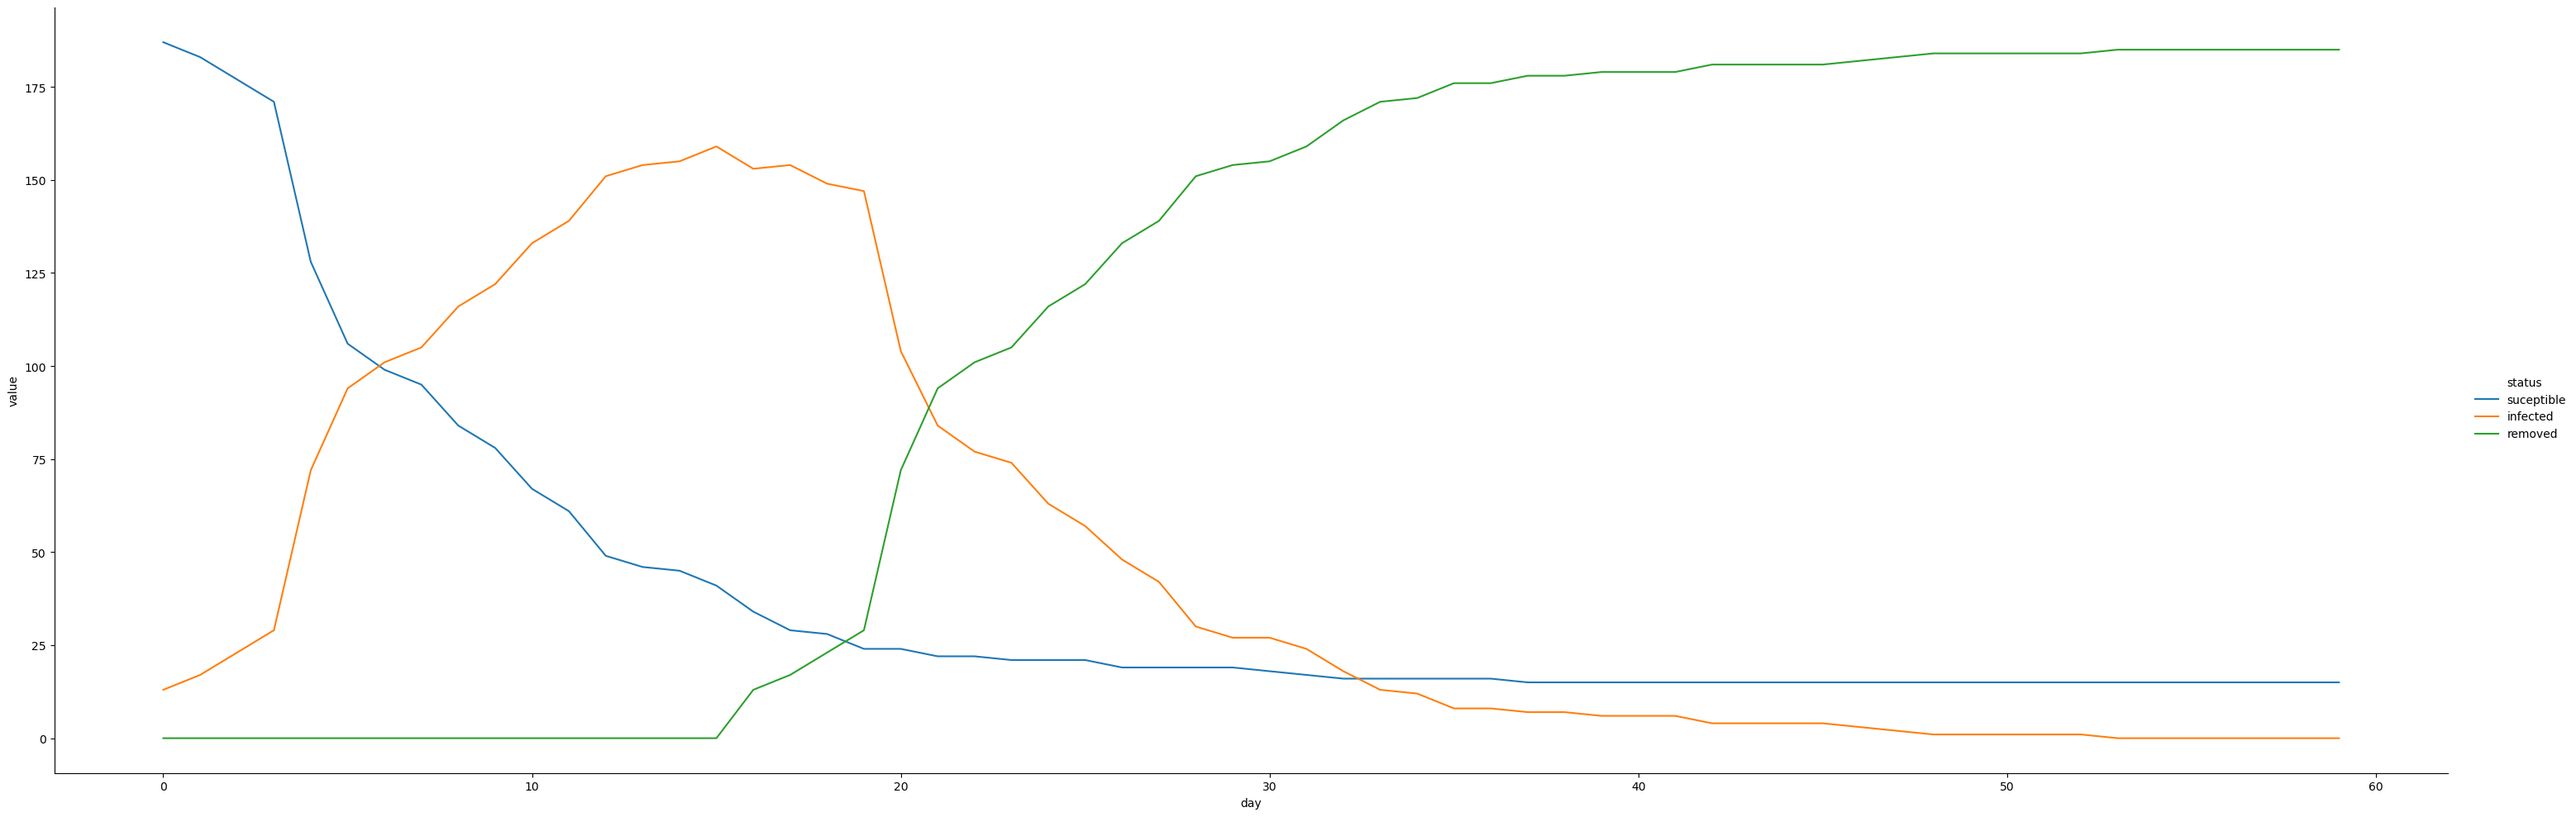
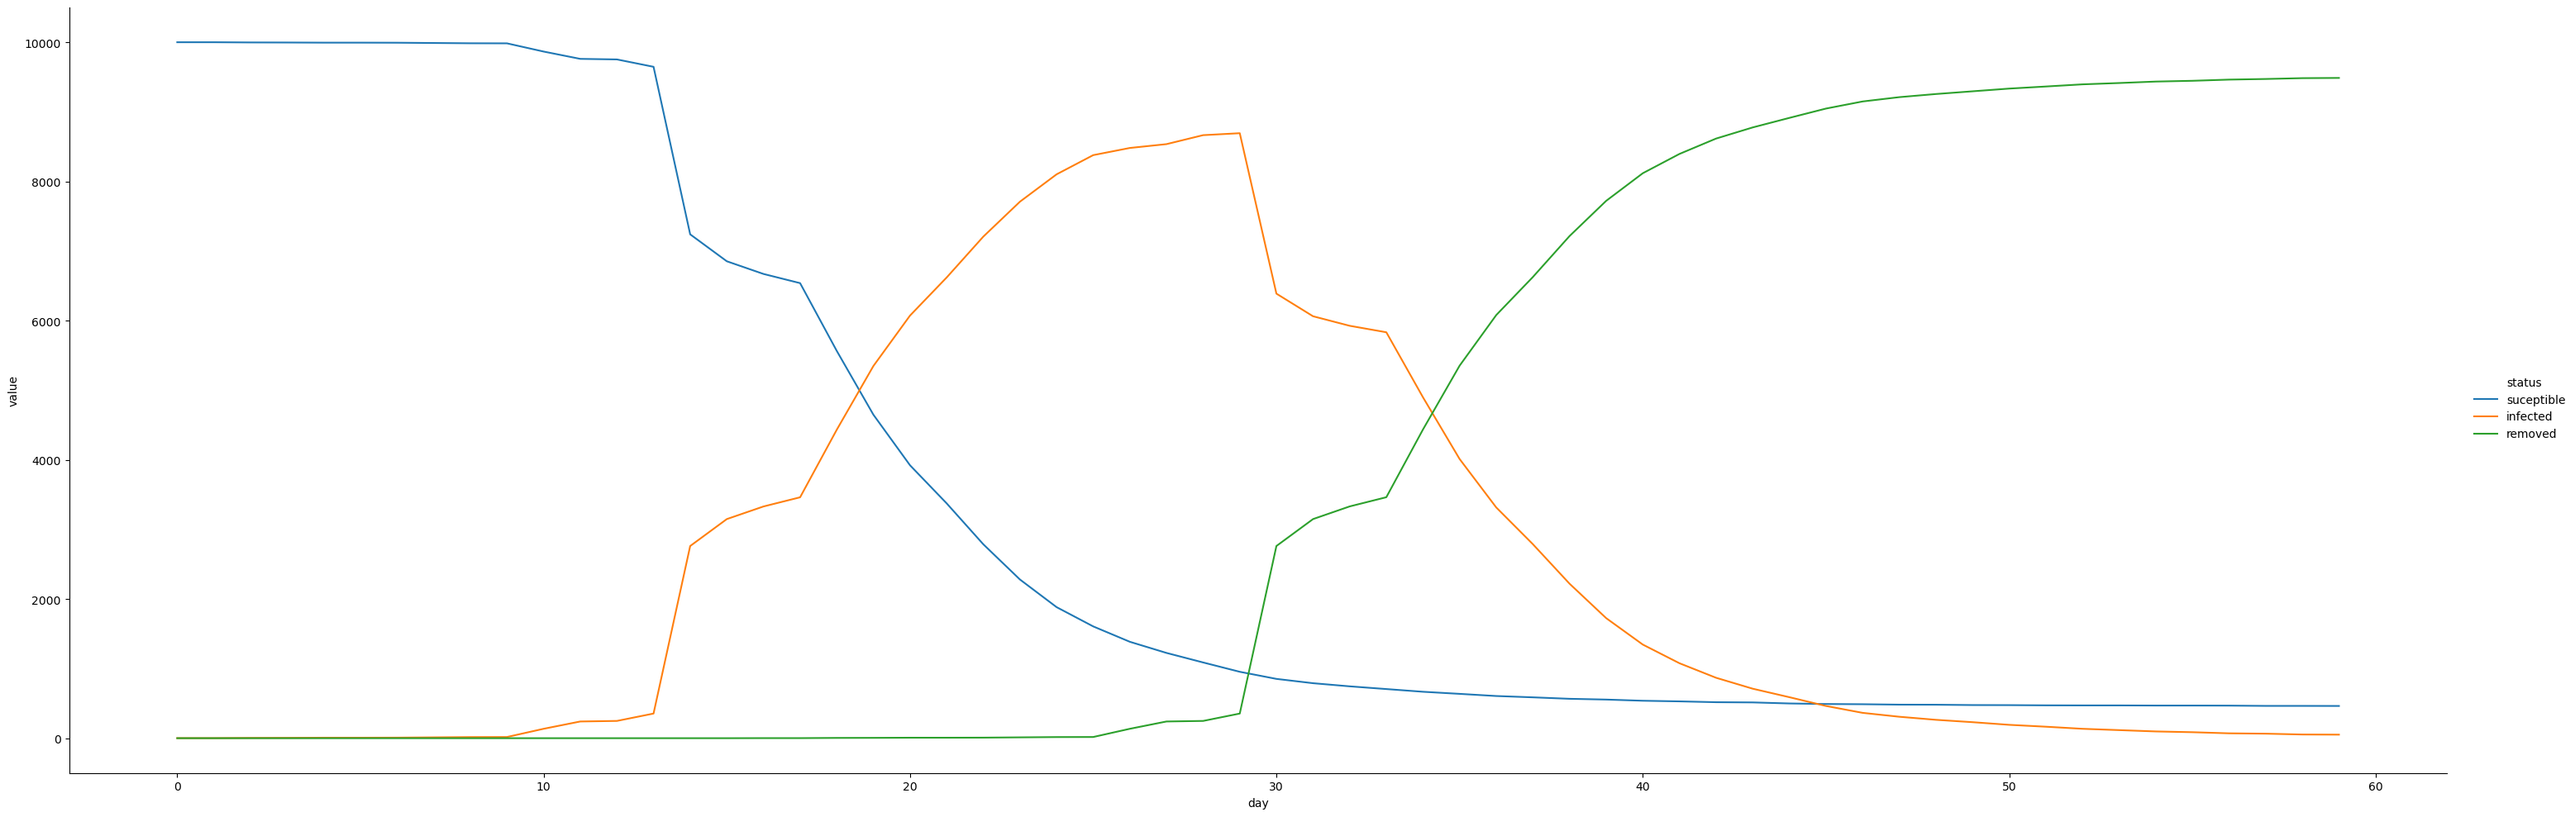
genesis mani

diff --git a/main_genesis.py b/main_genesis.py
@@ -1,0 +1,57 @@
+import pandas as pd
+import json
+import virus
+import seaborn as sns
+import properties
+import genesis
+import time
+
+if __name__ == "__main__":
+
+    tic = time.time()
+    cols = ['day', 'suceptible', 'infected', 'removed']
+    results = pd.DataFrame(columns=cols, index=range(properties.SIMULATION_DAYS), dtype=int)
+    city_builder = genesis.CityBuilder()
+    little_medallo = city_builder.create_city()
+    print("...starting virus propagation simulation...")
+    for day in range(properties.SIMULATION_DAYS):
+        ts_count = 0
+        for d_o_n in range(2):
+            if (d_o_n ==0):
+                
+                for ts in range(3):
+                    timeevent = f'd{day}_h{ts_count}'
+                    print(timeevent)
+                    little_medallo.pulse(d_o_n)
+                    little_medallo.public_commute(timeevent)                        
+                    little_medallo.commute_and_act(timeevent)
+                    ts_count += 1
+                    little_medallo.reset_contacts()
+                    virus.remove_population(little_medallo.citizens,timeevent)
+                    
+            else:
+                for ts in range(2):
+                    timeevent = f'd{day}_h{ts_count}'
+                    print(timeevent)
+                    little_medallo.pulse(d_o_n)
+                    little_medallo.public_commute(timeevent)                        
+                    little_medallo.commute_and_act(timeevent)
+                    ts_count += 1
+                    little_medallo.reset_contacts()
+                    virus.remove_population(little_medallo.citizens,timeevent)
+                    
+
+        p_suceptible, p_infected, p_removed = little_medallo.sir_population_count() 
+        results.loc[day].suceptible = p_suceptible
+        results.loc[day].infected = p_infected
+        results.loc[day].removed = p_removed
+        print(f' the d{day} we have ' , p_suceptible, p_infected, p_removed, " suceptible, infected, removed")
+        results.loc[day].day = day
+        
+    toc = time.time()
+    print("finish the simulation, total time(seconds): ", toc - tic)
+    results.to_csv("results.csv", index = False)
+    results = pd.melt(results,id_vars='day',value_vars=["suceptible","infected","removed"], var_name="status")
+    #Ploting curve
+    ax = sns.relplot(x='day',y='value',hue='status',data=results, kind="line", height=10,aspect=3)
+    ax.savefig('SIR_curve.png')

diff --git a/genesis.py b/genesis.py
@@ -3,6 +3,8 @@ import random
 from social import Location, Person, Stereotype
 from numpy.random import choice
 import uuid
+from medellin import City
+
 
 class CityBuilder:
     def __init__(self, city_file: str = 'config/city_init.json', 
@@ -85,6 +87,41 @@ class CityBuilder:
     
     def get_label(self, labels_with_weigths):
         return (choice(list(labels_with_weigths.keys()), p = list(labels_with_weigths.values())))
+
+
+    def assign_homes(self):
+
+        all_city: list[Person] = []
+        [all_city.append(p) for pg in list(self.citizens.values()) for p in pg]
+        for c in all_city:
+            home = c.my_spots['h']
+            home.add_person(c)
+    
+
+    def create_city(self):
+        print("Day 0: creating locations...")
+        self.create_locations()
+        print("Day 1: creating humans...")
+        self.populate()
+        print("Day 2: creating city...")
+        self.load_city()
+        transportation = Location('mini-metro', 't', self.city_distribution['public_trans_contact_prob'])
+        citizens = list(self.citizens.values())
+        locations = list(self.locations_city.values())
+        all_locations: list[Location] = []
+        [all_locations.append(p) for pg in locations for p in pg]
+        print("Day 3: assigning humans to homes...")
+        self.assign_homes()
+        city = City(self.city_distribution['name'], locations=all_locations, public_transport=transportation, citizens=citizens)
+        print("Day 4: infecting humans...")
+        city.initial_infect(self.city_distribution['init_infected'])
+        return city
+        
+       
+    
+        
+
+
 
 
 

diff --git a/virus.py b/virus.py
@@ -19,8 +19,8 @@ def infection (person, person_contact, current_time: str):
             if coin < infection_prob:
                 person.status = 'i'
                 person.update_vector(person_contact.name, current_time) 
-                print (f"sorry {person.name} you are new positive covid!")
-                print(f"your vector is {person.vector}")
+                #print (f"sorry {person.name} you are new positive covid!")
+                #print(f"your vector is {person.vector}")
                        
     else:
         coin = random.random()
@@ -29,8 +29,8 @@ def infection (person, person_contact, current_time: str):
         if coin < infection_prob:
             person.status = 'i'
             person.update_vector(person_contact.name, current_time)
-            print (f"sorry {person.name} you are new positive covid!")
-            print(f"your vector is {person.vector}")
+            #print (f"sorry {person.name} you are new positive covid!")
+            #print(f"your vector is {person.vector}")
     return True
             
 

diff --git a/social.py b/social.py
@@ -4,6 +4,7 @@ import itertools
 from maths_models import MarkovChain
 from typing import List, Dict
 import virus
+import properties
 
 
 class Stereotype():
@@ -38,8 +39,8 @@ class Person:
         self.current_type_location = 'h'
         self.next_type_location = None
         self.my_spots = my_spots
-        self.social_distance = 1.0
-        self.bad_habits = 1.0
+        self.social_distance = properties.SOCIAL_DISTANCING
+        self.bad_habits = properties.BAD_HABITS
 
     def update_myspots(self, my_spots):
         self.my_spots = my_spots
@@ -113,7 +114,8 @@ class Location:
     def commute_decision(self, day_or_nigth):
 
         if (len(self.population)<=0 ):
-            print("the zone is empty!!")
+            pass
+            #print("the zone is empty!!")
         else:
             for p in self.population:
                 p.decide_destination(self.location_type, day_or_nigth)

diff --git a/tests.py b/tests.py
@@ -34,6 +34,18 @@ class Test_CityBuilder(unittest.TestCase):
         print(jhon_doe.showme_your_id())
         print(jhon_doe.my_spots)
         self.assertGreater(len(jhon_doe.my_spots.keys()), 1)
+    
+    def test_assign_homes(self):
+        ozymandias = CityBuilder(city_file='config/city_init.json')
+        ozymandias.create_locations()
+        ozymandias.populate()
+        ozymandias.load_city()
+        ozymandias.assign_homes()
+        jhon_doe = choice(ozymandias.citizens['homers'])
+        print(jhon_doe.showme_your_id())
+        j_home = jhon_doe.my_spots['h']
+        self.assertTrue(jhon_doe in j_home.population)
+
 
     
     if __name__ == '__main__':

diff --git a/properties.py b/properties.py
@@ -2,3 +2,6 @@ INCUBATION_TIME = 4 #WHO LAST INDICATOR
 SYMPTOMATIC_TIME = 14
 REMOVING_TIME = 15
 INFECTION_BASE_PROB = 0.3
+BAD_HABITS = 1.0
+SOCIAL_DISTANCING = 1.0
+SIMULATION_DAYS = 60

diff --git a/main_commute.py b/main_commute.py
@@ -4,8 +4,6 @@ import pandas as pd
 import json
 import virus
 import seaborn as sns
-#import seaborn as sns
-
 
 if __name__ == "__main__":
 
